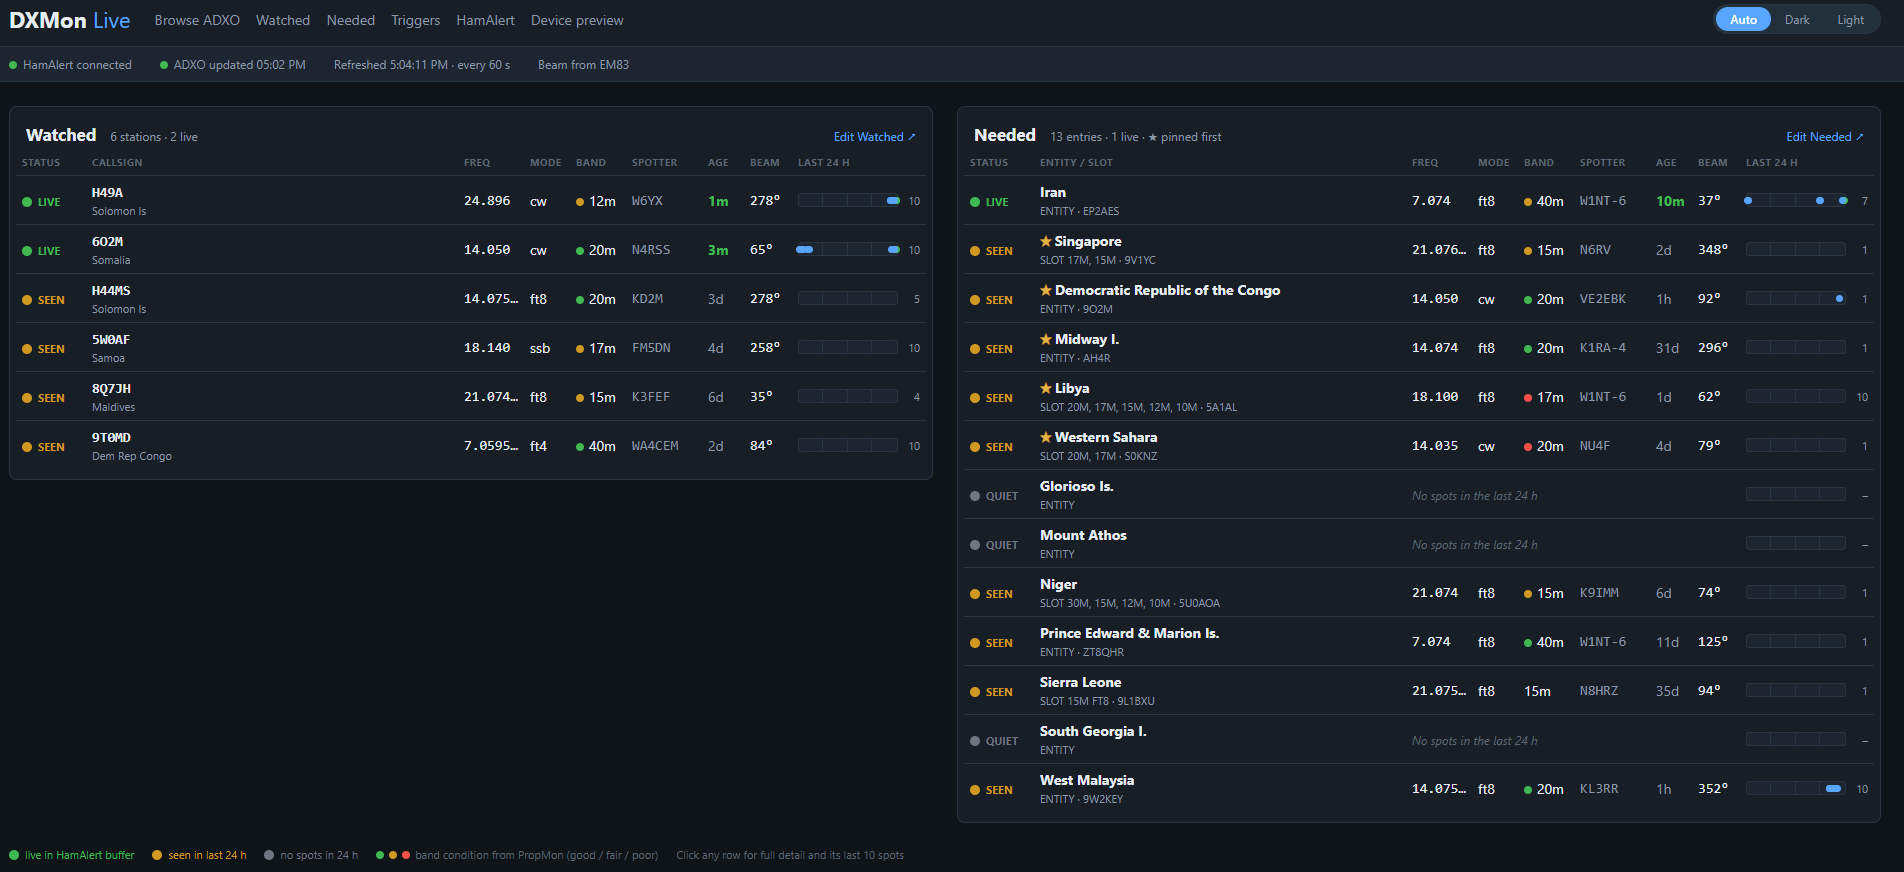
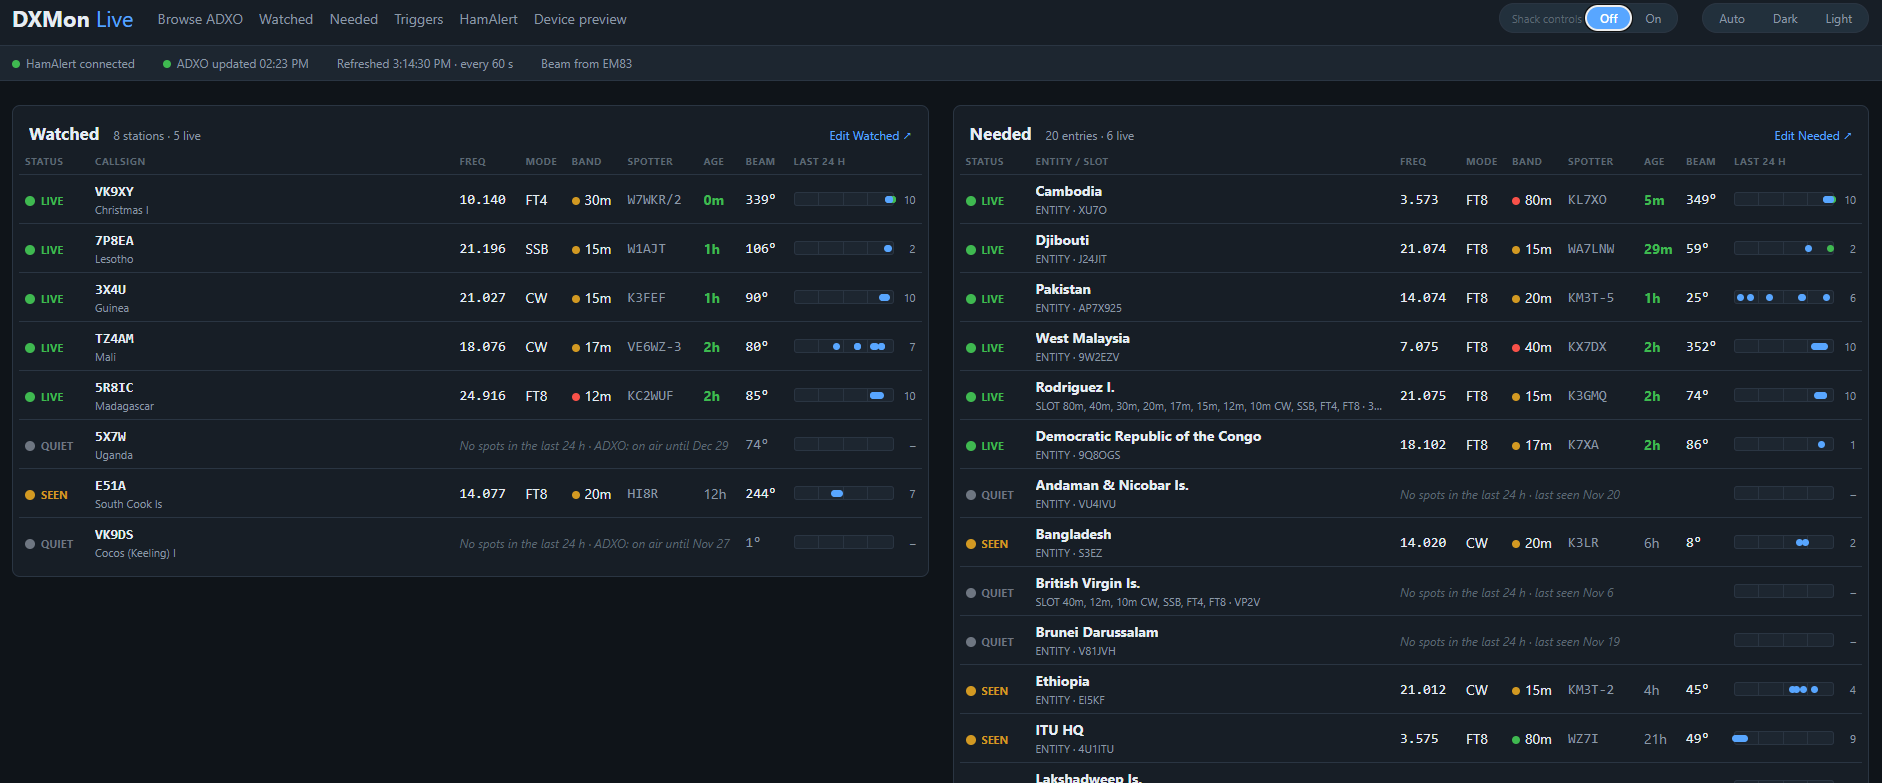
Docs: refresh DXMon Live screenshots; README lists Shack controls and manual Watched entries
- New DXMon Live main-view screenshot (shows the Shack controls switch)
- New popup screenshot with Tune and Rotate; User Guide caption updated
- README feature list: Shack controls (Tune/Rotate links) and manual Watched entries

Claude-Session: https://claude.ai/code/session_017yt99ZKH3shyTY4WivGRtX

diff --git a/README.md b/README.md
@@ -38,6 +38,12 @@ glance:
 - **DXMon Live**, a full-size web view for a desktop or tablet, shows every
   Watched and Needed entry at once with its last 24 hours of spots -- with
   or without the physical device.
+- Optional **Shack controls** in DXMon Live (off by default, per browser):
+  a **Tune** link for live CW/SSB spots and a **Rotate** link toward the
+  station, handed to your own `n4mi-shack:` handler on the station computer.
+  DXMon itself never talks to a radio or rotator. See the User Guide.
+- Lets you add a DXpedition to Watched by hand when it isn't on ADXO, with
+  an end date that raises an **Ended** reminder once it passes.
 - Includes on-device Wi-Fi setup (a real captive portal) -- no need to
   hardcode credentials or reflash firmware just to change networks.
 - All curation (deciding what to track, building HamAlert triggers) happens

diff --git a/User_Guide.md b/User_Guide.md
@@ -323,7 +323,7 @@ alongside the device, see the blog post
   (Needed), your note, and the last 10 spots in UTC with spotter, continent
   and comment. Close it with **Close**, **Esc**, or by clicking outside it.
 
-  ![A DXMon Live popup: beam heading, ADXO dates and QSL info, the 24-hour strip, and the last 10 spots.](images/dxmon_live_popup.png)
+  ![A DXMon Live popup: beam heading, ADXO dates and QSL info, the Tune and Rotate buttons (Shack controls on), the 24-hour strip, and the last 10 spots.](images/dxmon_live_popup.png)
 
 - **View only.** To change anything, use the **Edit Watched** / **Edit
   Needed** links or the popup's editor link.
